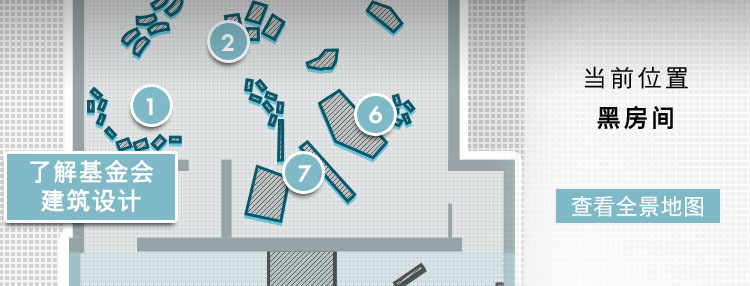
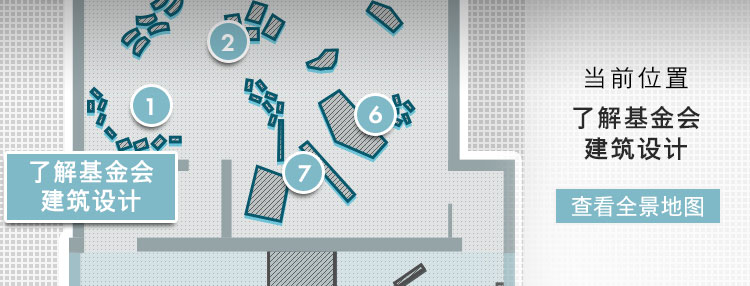
update

Changed region(s): [[0.7667, 0.3636, 0.9507, 0.4476], [0.7667, 0.4755, 0.92, 0.5594], [0.7667, 0.2238, 0.92, 0.3077]]

diff --git a/src/LV/Bundle/FondationBundle/Resources/public/js/guidedata.js b/src/LV/Bundle/FondationBundle/Resources/public/js/guidedata.js
@@ -7,20 +7,20 @@ var audioData = [
         },
         {
             "id": "2",
-            "theme": "白房间",
+            "theme": "了解基金会项目",
             "description": "这是一个详细介绍路易威登基金会背景与文化导向的空间，同时也向公众呈现了弗兰克·盖里建筑职业生涯中的大事记。<br />双银幕上所播放的影片讲述了路易威登基金会自开幕以来为公众带来的一系列经典与当代艺术展览和演出，这一切均印证了基金会植根于20世纪的艺术史中。此外，一系列与基金会建筑以及参展艺术家相关的精选书籍亦在此空间展示，可供您翻阅参考。",
             "imgLength": "1"
         },
         {
             "id": "3",
-            "theme": "黑房间",
+            "theme": "了解基金会建筑设计",
             "description": "本空间所展出的展品根据建筑设计过程中，研究与分析的内容形成不同区域的划分,分别涉及选址历史、项目计划、设计理念、内部空间，冰山建筑体和玻璃船帆。<br />这些分组模型令人联想起一群群的鱼儿，而鱼正是弗兰克·盖里最珍爱的灵感源泉。在黑色背景之下，通过光影的投射，高低错落的摆放，这一件件作品好似悬浮在液态的氛围之中。",
             "imgLength": "1"
         },
         {
             "id": "4",
             "theme": "历史",
-            "description": "弗兰克·盖里（Frank Gehry）的建筑定是高瞻远瞩地面向未来，但同时也与会址的悠久历史产生互动，适境而生。自项目初始，与周遭环境相融合即是建筑师最为关注的设计要点。半透明的玻璃船帆使人联想到巴黎西郊布洛涅森林的温室花房。这种源自十九世纪的建筑风格，利用金属结构与玻璃护板的巧妙组合，使得参观者在穿越建筑内部的时候依旧可以望见室外郁郁葱葱的绿色，往日室内与室外的界限在此以不复存在。整栋建筑成为周遭花园的一部分。",
+            "description": "弗兰克·盖里（Frank Gehry）的建筑定是高瞻远瞩地面向未来，但同时也与会址的悠久历史产生互动，适境而生。自项目初始，与周遭环境相融合即是建筑师最为关注的设计要点。半透明的玻璃船帆使人联想到巴黎西郊布洛涅森林的温室花房。这种源自十九世纪的建筑风格，利用金属结构与玻璃护板的巧妙组合，使得参观者在穿越建筑内部的时候依旧可以望见室外郁郁葱葱的绿色，往日室内与室外的界限在此已不复存在。整栋建筑成为周遭花园的一部分。",
             "imgLength": "1"
         },
         {

diff --git a/src/LV/Bundle/FondationBundle/Controller/PageController.php b/src/LV/Bundle/FondationBundle/Controller/PageController.php
@@ -256,7 +256,7 @@ class PageController extends Controller
     * @return view
     */
     public function wechatEntranceAction()
-    {
+    {return $this->forward('LVFondationBundle:Page:guideTour');
         $userservice = $this->container->get('lv.user.service');
         if($userservice->userLoad()->getRole() == 'offline') 
             return $this->forward('LVFondationBundle:Page:guideTour');
